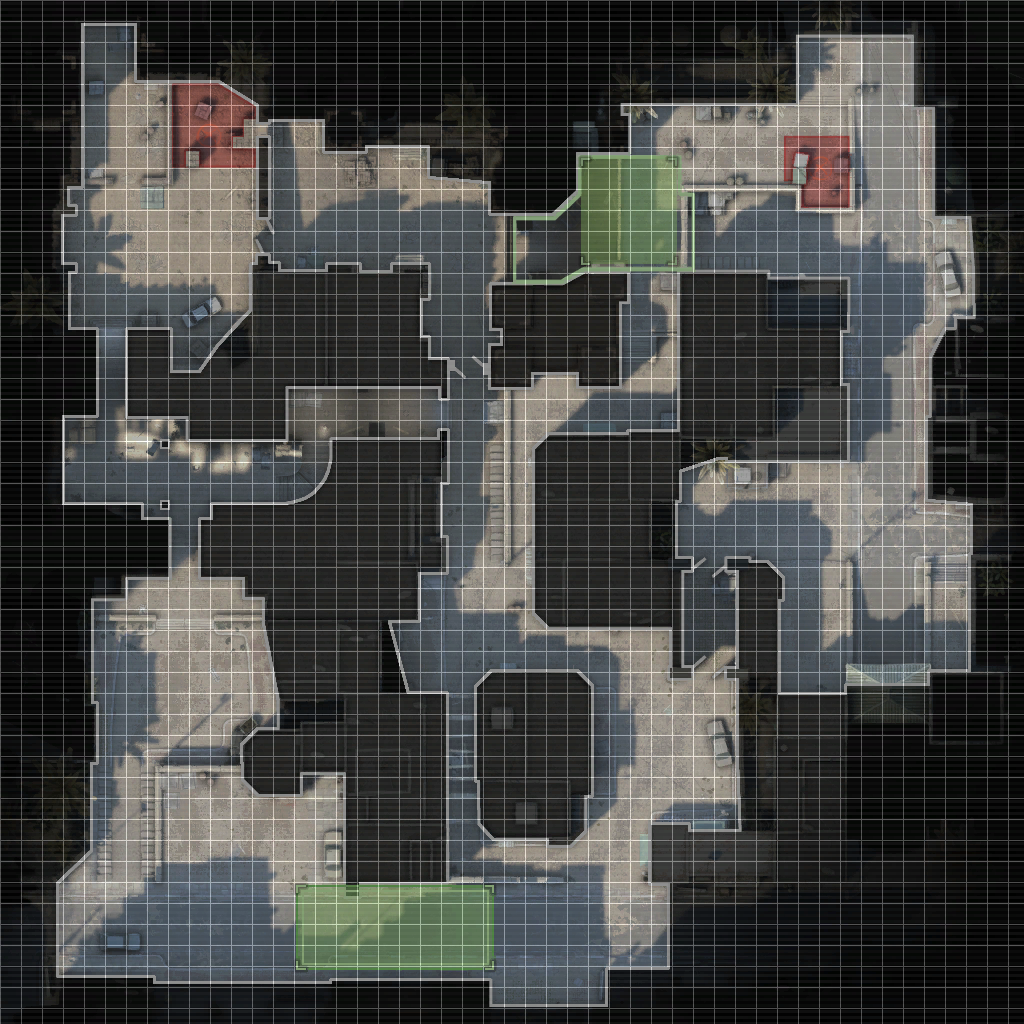
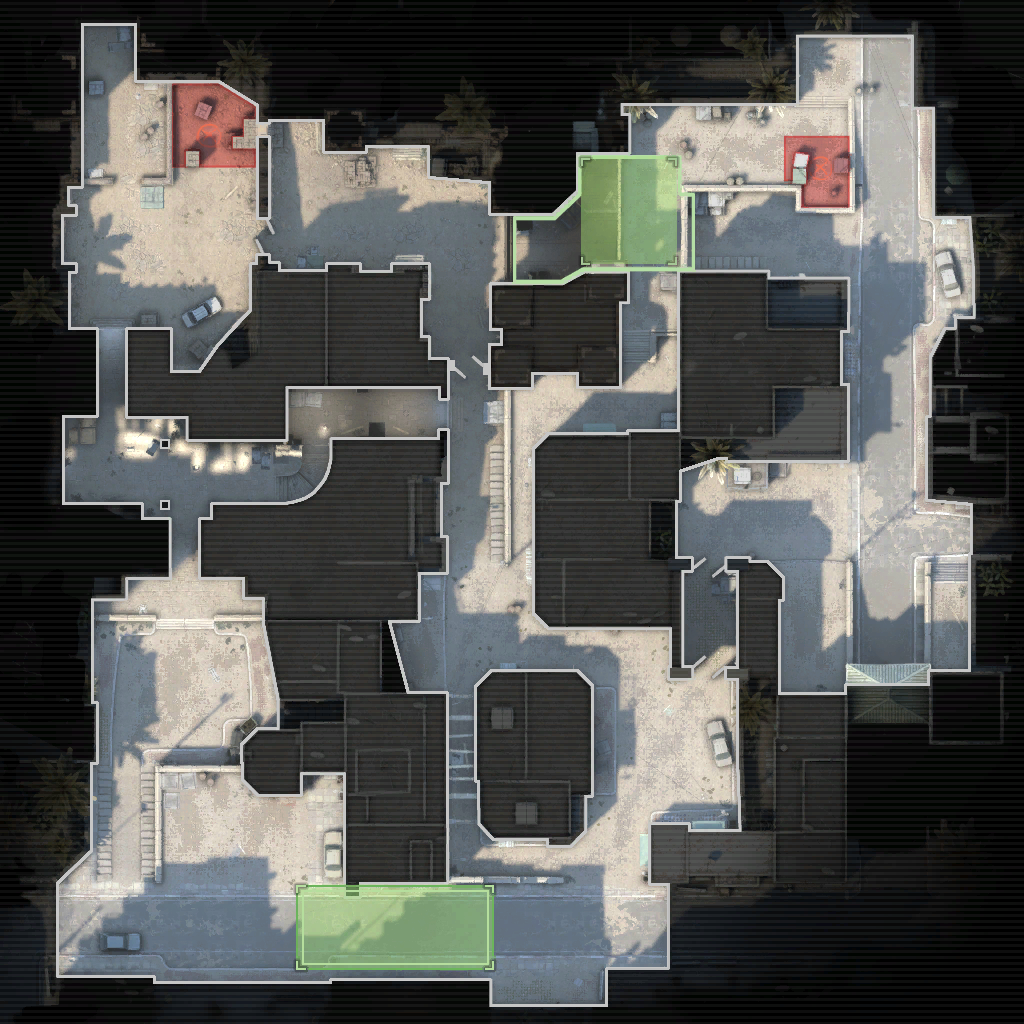
Style agents without wizard dependency

diff --git a/src/ui/TStyle.java b/src/ui/TStyle.java
@@ -1,0 +1,60 @@
+package ui;
+
+import java.awt.Color;
+import java.awt.Font;
+import java.io.IOException;
+
+import agents.CTAgent;
+import agents.TAgent;
+import repast.simphony.visualizationOGL2D.DefaultStyleOGL2D;
+import saf.v3d.scene.Position;
+import saf.v3d.scene.VSpatial;
+
+public class TStyle extends DefaultStyleOGL2D {
+	
+	@Override
+	public VSpatial getVSpatial(Object agent, VSpatial spatial) {
+		TAgent tAgent = ((TAgent) agent);
+		String logoPath = "src/assets/t-icon.png";
+		
+		if (tAgent.getHasBomb())
+			logoPath = "src/assets/t-icon-bomb.png";
+
+		try {
+			spatial = shapeFactory.createImage(logoPath);
+		} catch (IOException e) {
+			e.printStackTrace();
+		}
+		return spatial;
+	}
+	
+	@Override
+	public float getScale(Object object) {
+		return 0.1f;
+	}
+	
+	@Override
+	public String getLabel(Object object) {
+		return ((TAgent) object).getAID().getLocalName();
+	}
+	
+	@Override
+	public Font getLabelFont(Object object) {
+		return new Font(Font.DIALOG, Font.PLAIN, 12);
+	}
+	
+	@Override
+	public Position getLabelPosition(Object object) {
+		return Position.SOUTH;
+	}
+	
+	@Override
+	public float getLabelYOffset(Object object) {
+		return 2.0f;
+	}
+	
+	@Override
+	public Color getLabelColor(Object object) {
+		return Color.WHITE;
+	}
+}

diff --git a/src/ui/CTStyle.java b/src/ui/CTStyle.java
@@ -1,0 +1,53 @@
+package ui;
+
+import java.awt.Color;
+import java.awt.Font;
+import java.io.IOException;
+
+import agents.CTAgent;
+import repast.simphony.visualizationOGL2D.DefaultStyleOGL2D;
+import saf.v3d.scene.Position;
+import saf.v3d.scene.VSpatial;
+
+public class CTStyle extends DefaultStyleOGL2D {
+	
+	@Override
+	public VSpatial getVSpatial(Object agent, VSpatial spatial) {
+		try {
+			spatial = shapeFactory.createImage("src/assets/ct-icon.png");
+		} catch (IOException e) {
+			e.printStackTrace();
+		}
+		return spatial;
+	}
+	
+	@Override
+	public float getScale(Object object) {
+		return 0.1f;
+	}
+	
+	@Override
+	public String getLabel(Object object) {
+		return ((CTAgent) object).getAID().getLocalName();
+	}
+	
+	@Override
+	public Font getLabelFont(Object object) {
+		return new Font(Font.DIALOG, Font.PLAIN, 12);
+	}
+	
+	@Override
+	public Position getLabelPosition(Object object) {
+		return Position.SOUTH;
+	}
+	
+	@Override
+	public float getLabelYOffset(Object object) {
+		return 2.0f;
+	}
+	
+	@Override
+	public Color getLabelColor(Object object) {
+		return Color.WHITE;
+	}
+}

diff --git a/src/agents/TAgent.java b/src/agents/TAgent.java
@@ -23,11 +23,11 @@ public class TAgent extends Agent {
 	private Grid<Object> grid;
 	
 	private int health;
-	private boolean isIGL;
+	private boolean isIGL, hasBomb;
 	protected LinkedList<Node> onCourse;
 	
-	public TAgent(ContinuousSpace<Object> space, Grid<Object> grid, boolean isIGL) {
-		this.space = space; this.grid = grid; this.isIGL = isIGL;
+	public TAgent(ContinuousSpace<Object> space, Grid<Object> grid, boolean isIGL, boolean hasBomb) {
+		this.space = space; this.grid = grid; this.isIGL = isIGL; this.hasBomb = hasBomb;
 		this.health = 100;
 		this.onCourse = new LinkedList<Node>();
 	}
@@ -121,7 +121,7 @@ public class TAgent extends Agent {
 		@Override
 		public void action() {
 			if (health <= 0) {
-				System.out.println("I've been killed " + getAID().getName());
+				//System.out.println("I've been killed " + getAID().getName());
 				warnServerOfDeath();
 				moveTowards(new Node("cemetery", 0, 0));
 				doDelete();
@@ -173,4 +173,9 @@ public class TAgent extends Agent {
 			}
 		}
 	}
+	
+	public boolean getHasBomb() {
+		return this.hasBomb;
+	}
+	
 }

diff --git a/src/ui/UserPanel.java b/src/ui/UserPanel.java
@@ -1,0 +1,30 @@
+package ui;
+import java.util.Arrays;
+
+import javax.swing.BoxLayout;
+import javax.swing.JComboBox;
+import javax.swing.JLabel;
+import javax.swing.JPanel;
+
+import repast.simphony.userpanel.ui.UserPanelCreator;
+import utils.Calls;
+
+public class UserPanel implements UserPanelCreator {
+
+	@Override
+	public JPanel createPanel() {
+		JPanel panel = new JPanel();
+		panel.setLayout(new BoxLayout(panel, BoxLayout.Y_AXIS));
+		
+		panel.add(new JLabel("Counter-Terrorist Strategy"));
+		JComboBox<Calls.Callouts> ctStratSel = new JComboBox<Calls.Callouts>(Calls.Callouts.values());
+		panel.add(ctStratSel);
+		
+		panel.add(new JLabel("Terrorist Strategy"));
+		JComboBox<Calls.Callouts> tStratSel = new JComboBox<Calls.Callouts>(Calls.Callouts.values());
+		panel.add(tStratSel);
+		
+		return panel;
+	}
+
+}

diff --git a/src/ui/RadarStyle.java b/src/ui/RadarStyle.java
@@ -1,0 +1,35 @@
+package ui;
+
+import java.io.IOException;
+
+import repast.simphony.gis.styleEditor.SimpleMarkFactory;
+import repast.simphony.visualizationOGL2D.DefaultStyleOGL2D;
+import saf.v3d.ShapeFactory2D;
+import saf.v3d.scene.VSpatial;
+
+public class RadarStyle extends DefaultStyleOGL2D {
+	private static SimpleMarkFactory markFac = new SimpleMarkFactory();
+	
+	@Override
+	public void init(ShapeFactory2D factory) {
+		super.init(factory);
+	}
+	
+	@Override
+	public VSpatial getVSpatial(Object agent, VSpatial spatial) {
+		if (spatial == null) {
+			try {
+				spatial = shapeFactory.createImage("src/assets/dust2-radar.png");
+			} catch (IOException e) {
+				e.printStackTrace();
+			}	
+		}
+		return spatial;
+	}
+	
+	@Override
+	public float getScale(Object object) {
+		return 0.75f;
+	}
+	
+}

diff --git a/src/SourceLauncher.java b/src/SourceLauncher.java
@@ -59,11 +59,13 @@ public class SourceLauncher extends RepastSLauncher {
 		int iglIndex = ThreadLocalRandom.current().nextInt(0, 5);
 		
 		for (int i = 0; i < 5; i++) {
-			boolean isIGL = false;
+			boolean isIGL = false, hasBomb = false;
+			
 			if (iglIndex == i) isIGL = true;
+			if (i == 0) hasBomb = true; 
 			
 			CTAgent ct = new CTAgent(this.space, this.grid, isIGL);
-			TAgent t = new TAgent(this.space, this.grid, isIGL);
+			TAgent t = new TAgent(this.space, this.grid, isIGL, hasBomb);
 			
 			container.acceptNewAgent("CT" + (i+1), ct).start();
 			container.acceptNewAgent("T" + (i+1), t).start();

diff --git a/src/agents/CTAgent.java b/src/agents/CTAgent.java
@@ -120,7 +120,7 @@ public class CTAgent extends Agent {
 		@Override
 		public void action() {
 			if (health <= 0) {
-				System.out.println("I've been killed " + getAID().getName());
+				//System.out.println("I've been killed " + getAID().getName());
 				warnServerOfDeath();
 				moveTowards(new Node("cemetery", 0, 0));
 				doDelete();

diff --git a/src/agents/GameServer.java b/src/agents/GameServer.java
@@ -85,7 +85,7 @@ public class GameServer extends Agent {
 			
 			if (msg != null) {
 				String[] info = msg.getContent().split(" ");
-				System.out.println(msg.getContent());
+				//System.out.println(msg.getContent());
 				
 				// TODO: Probably convert these to enum.
 				if (info[0].equals("SHOT"))
